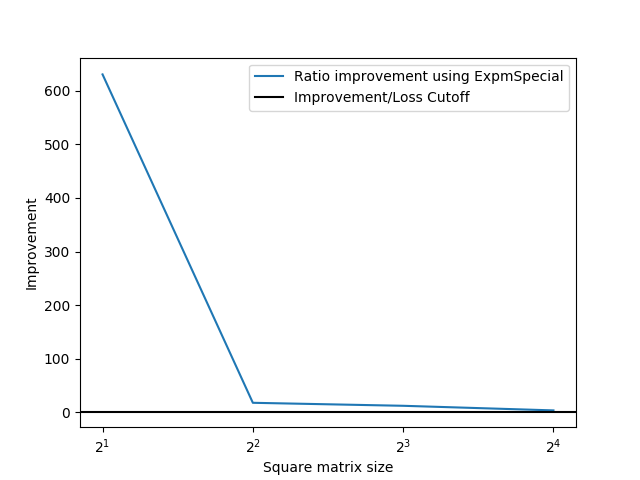
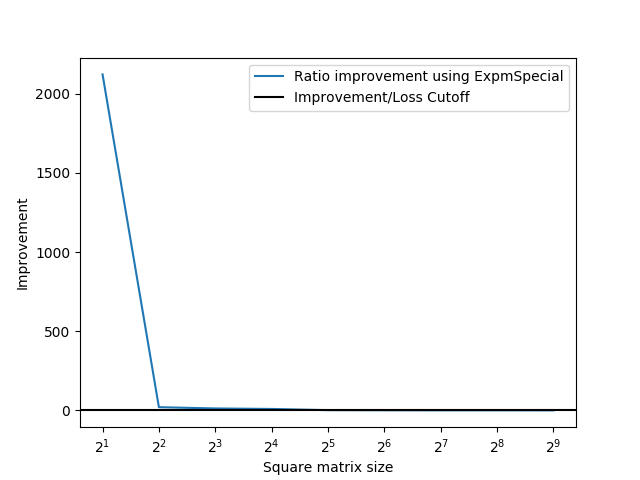
Fixed bug: replaced np.tensordot with np.kron in random matrix generation.

diff --git a/test_matrices/random_matrix.py b/test_matrices/random_matrix.py
@@ -23,10 +23,11 @@ def get_matrix(matrix_size):
 	else:			
 		for i in range(len(params)-1):
 				if i==0:
-				    output = np.tensordot(params[i]*newoplist[i], params[i+1]*newoplist[i+1], axes=0)
+				    output = np.kron(params[i]*newoplist[i], params[i+1]*newoplist[i+1])
 				else:
-				    output = np.tensordot(output, params[i+1]*newoplist[i+1], axes=0)
+				    output = np.kron(output, params[i+1]*newoplist[i+1])
 		output = np.reshape(output, [2**size,2**size])
 
 	# print('Ratio of non zero to total elements:', np.count_nonzero(output), ':', ((2**size)**2))
+	
 	return output

diff --git a/test_matrices/compare_linalg.py b/test_matrices/compare_linalg.py
@@ -8,7 +8,7 @@ import matplotlib.pyplot as plt
 
 # matrix_size: how many qubits. matrix will be square of 2^size X 2^size
 #matrix_sizes = [1,2,3]
-matrix_sizes = range(1,5)
+matrix_sizes = range(1,13)
 track_times=np.zeros([len(matrix_sizes), 4])
 
 
@@ -21,7 +21,7 @@ for i in range(0,len(matrix_sizes)):
 	b = time.time()
 
 	c=time.time()
-	emat = mu.expm_special(mat)
+	mu.expm_special(mat)
 	d=time.time()
 
 	time_linalg = b-a
